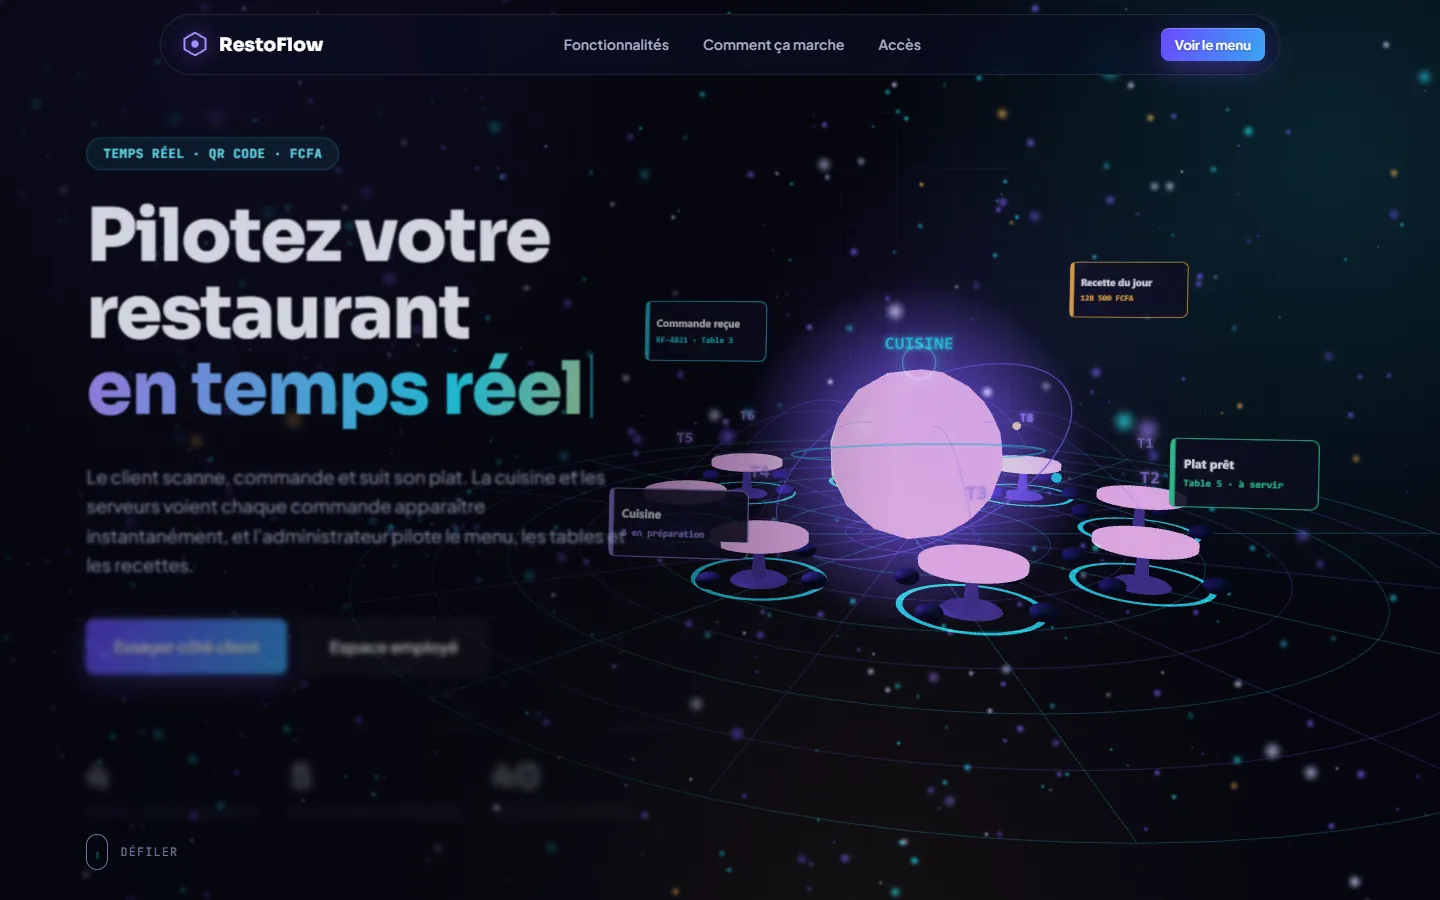
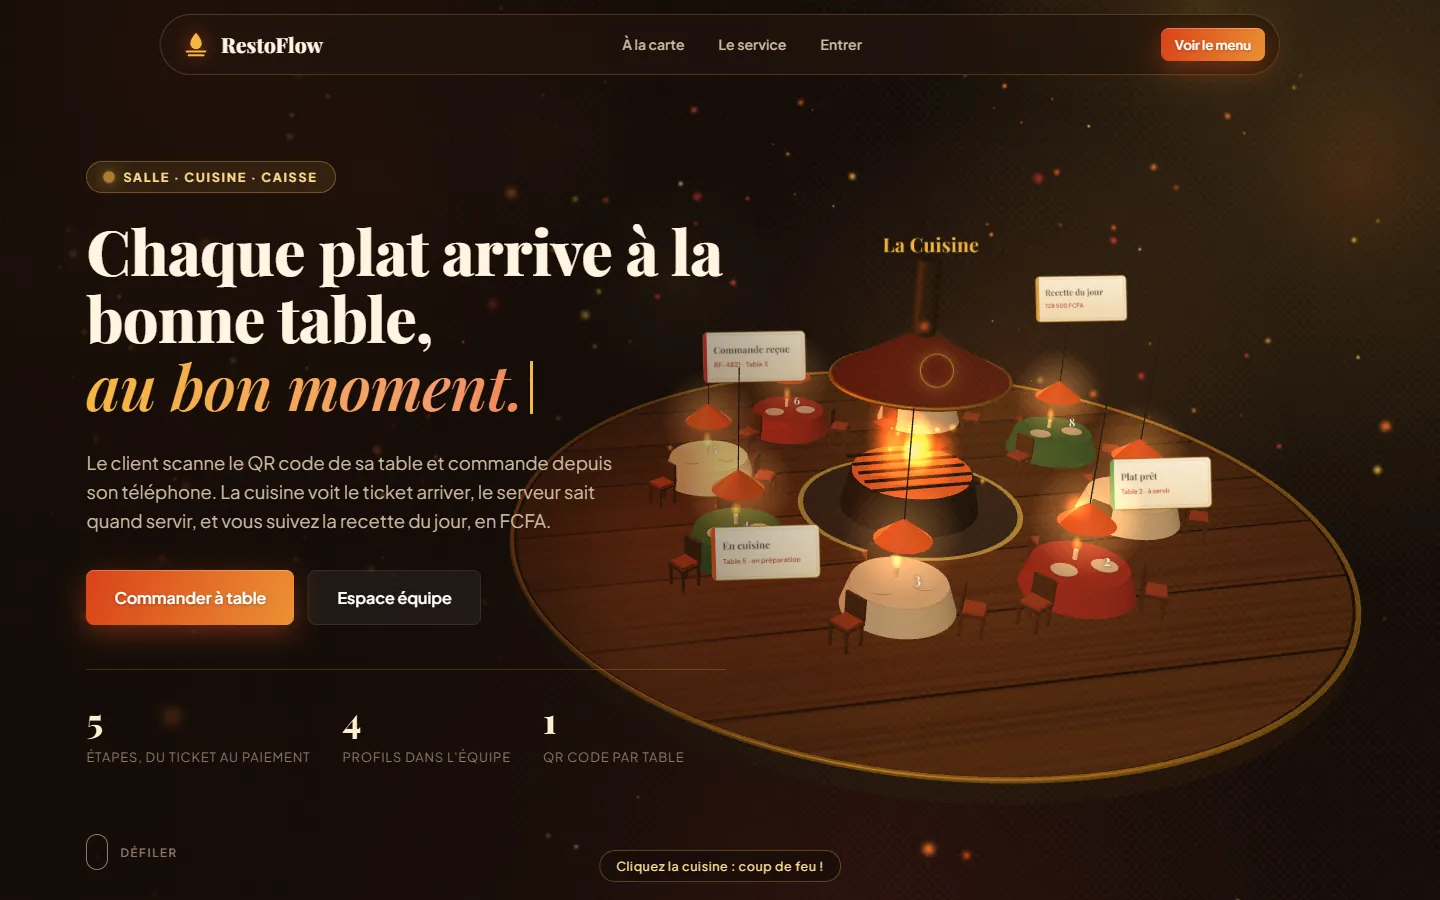
Portfolio : captures et textes RestoFlow mis a jour (theme restaurant)

diff --git a/index.html b/index.html
@@ -191,18 +191,18 @@
         <article class="project featured reverse reveal" data-tags="web temps-reel">
           <div class="gallery" data-gallery>
             <button class="gallery-main" type="button" data-main aria-label="Agrandir la capture d’écran">
-              <img data-img src="assets/img/resto-accueil.webp" alt="Page d’accueil de RestoFlow avec une scène 3D de tables reliées à la cuisine" width="1440" height="900" loading="lazy">
+              <img data-img src="assets/img/resto-accueil.webp" alt="Page d’accueil de RestoFlow : salle de restaurant en 3D avec ses tables et sa cuisine ouverte" width="1440" height="900" loading="lazy">
               <span class="zoom-hint">Agrandir</span>
             </button>
             <div class="thumbs" aria-label="Captures d’écran">
-              <button type="button" class="thumb active" data-src="assets/img/resto-accueil.webp" data-alt="Page d’accueil de RestoFlow avec une scène 3D de tables reliées à la cuisine" data-cap="Accueil : scène 3D où les commandes voyagent des tables vers la cuisine, puis reviennent prêtes à servir."><img src="assets/img/resto-accueil.webp" alt="" loading="lazy" width="140" height="88"><span>Accueil 3D</span></button>
+              <button type="button" class="thumb active" data-src="assets/img/resto-accueil.webp" data-alt="Page d’accueil de RestoFlow : salle de restaurant en 3D avec ses tables et sa cuisine ouverte" data-cap="Accueil : une salle de restaurant en 3D. Les tickets s’envolent des tables vers le feu de la cuisine, les plats reviennent sous cloche."><img src="assets/img/resto-accueil.webp" alt="" loading="lazy" width="140" height="88"><span>Accueil 3D</span></button>
               <button type="button" class="thumb" data-src="assets/img/resto-cuisine.webp" data-alt="Tableau des commandes par colonnes : reçues, en préparation, prêtes, servies" data-cap="Espace cuisine et service : commandes par colonnes, alertes instantanées, droits selon le rôle."><img src="assets/img/resto-cuisine.webp" alt="" loading="lazy" width="140" height="88"><span>Cuisine</span></button>
-              <button type="button" class="thumb" data-src="assets/img/resto-rapports.webp" data-alt="Rapports financiers avec un graphique 3D interactif des recettes" data-cap="Rapports : recettes du jour, du mois, de l’année, avec un graphique 3D que l’on fait tourner."><img src="assets/img/resto-rapports.webp" alt="" loading="lazy" width="140" height="88"><span>Rapports 3D</span></button>
+              <button type="button" class="thumb" data-src="assets/img/resto-rapports.webp" data-alt="Rapports financiers avec un graphique 3D interactif des recettes" data-cap="Rapports : recettes du jour, du mois, de l’année, avec un graphique 3D en piles sur une planche que l’on fait tourner."><img src="assets/img/resto-rapports.webp" alt="" loading="lazy" width="140" height="88"><span>Rapports 3D</span></button>
               <button type="button" class="thumb" data-src="assets/img/resto-admin.webp" data-alt="Tableau de bord de l’administration de RestoFlow" data-cap="Administration : indicateurs du jour, volume de commandes, évolution des recettes."><img src="assets/img/resto-admin.webp" alt="" loading="lazy" width="140" height="88"><span>Administration</span></button>
               <button type="button" class="thumb" data-src="assets/img/resto-menu.webp" data-alt="Menu client de RestoFlow avec les plats par catégorie" data-cap="Menu client : le client scanne le QR code de sa table et commande depuis son téléphone."><img src="assets/img/resto-menu.webp" alt="" loading="lazy" width="140" height="88"><span>Menu client</span></button>
               <button type="button" class="thumb" data-src="assets/img/resto-mobile.webp" data-alt="Accueil de RestoFlow sur téléphone" data-cap="Affichage adapté au téléphone."><img src="assets/img/resto-mobile.webp" alt="" loading="lazy" width="140" height="88"><span>Mobile</span></button>
             </div>
-            <p class="gallery-cap" data-cap>Accueil : scène 3D où les commandes voyagent des tables vers la cuisine, puis reviennent prêtes à servir.</p>
+            <p class="gallery-cap" data-cap>Accueil : une salle de restaurant en 3D. Les tickets s’envolent des tables vers le feu de la cuisine, les plats reviennent sous cloche.</p>
           </div>
 
           <div class="project-body">
@@ -212,7 +212,7 @@
             <ul class="ticks">
               <li>Quatre profils (client, cuisine, serveur, administrateur) avec droits vérifiés <strong>côté serveur</strong> et authentification par jeton JWT.</li>
               <li>Mises à jour instantanées par <strong>WebSockets</strong>, QR codes par table, reçus PDF, rapports journaliers, mensuels et annuels.</li>
-              <li>Interface animée : scènes <strong>Three.js</strong>, particules, graphique 3D des recettes.</li>
+              <li>Interface de restaurant animée : salle et cuisine en 3D (<strong>Three.js</strong>), braises, graphique 3D des recettes.</li>
             </ul>
             <ul class="chips" aria-label="Technologies">
               <li>Node.js</li><li>Express</li><li>Socket.IO</li><li>SQLite</li><li>JWT</li><li>PDFKit</li><li>Three.js</li>
